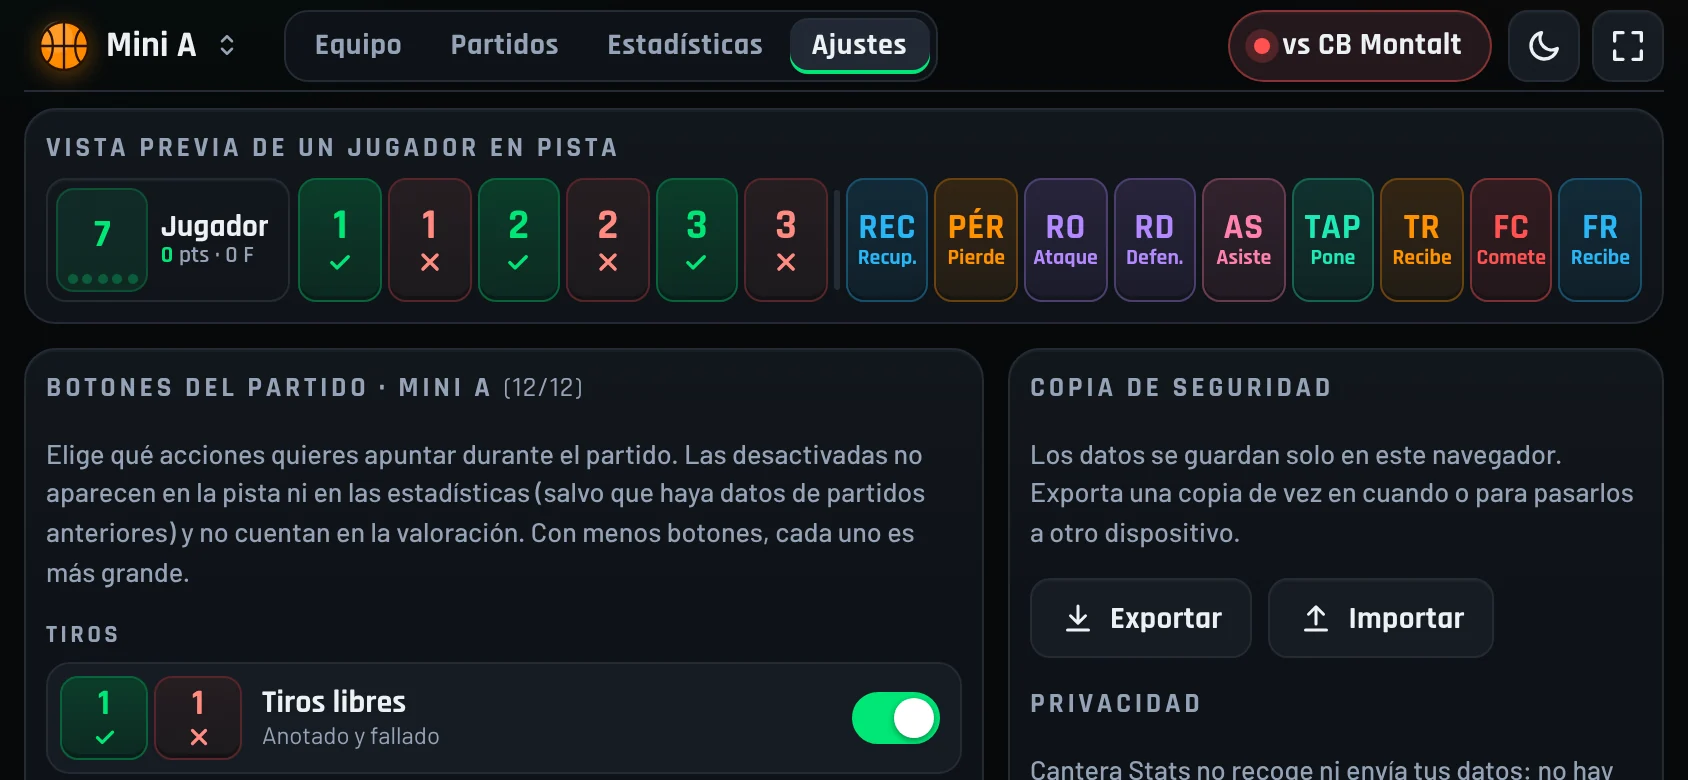
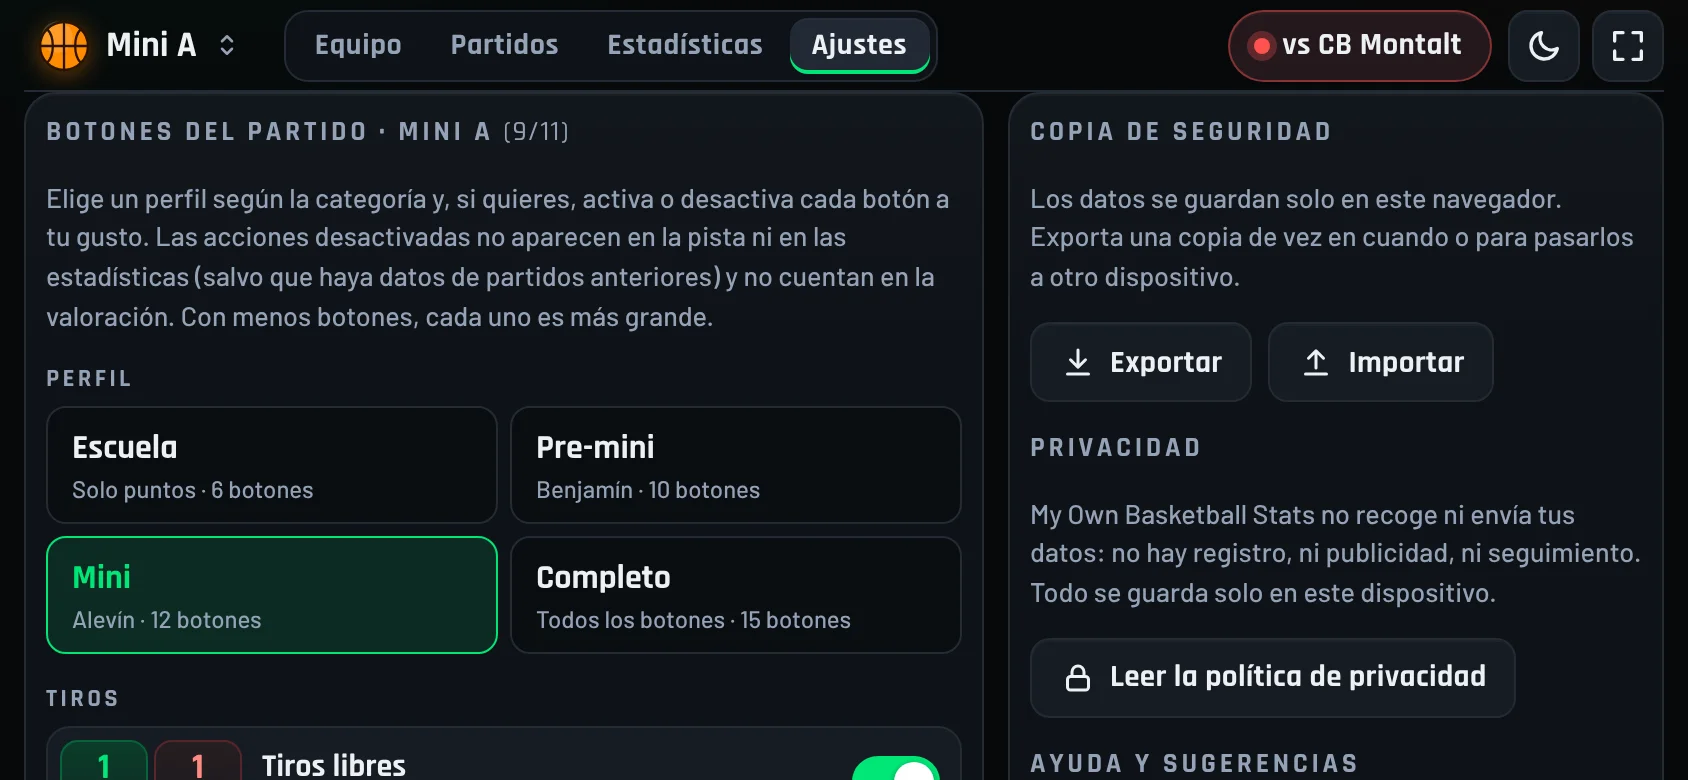
Web: capturas de la app con los perfiles, los rebotes y el rendimiento en directo
- Nuevas capturas (844×390 a 2x, modo oscuro) de la pantalla de partido, Ajustes
  y estadísticas, con un equipo en el perfil mini: botón único de rebote tras los
  tiros, valoración y +/- en directo, y los perfiles en Ajustes.
- scripts/capturas.mjs las genera con la app real y datos de ejemplo fijos
  (azar con semilla), para rehacerlas tras cada cambio visible.
- Textos alternativos actualizados (castellano y catalán) y README.

Claude-Session: https://claude.ai/code/session_0156vubYcrPUoFwhCi52DNzL

diff --git a/src/i18n/home.ts b/src/i18n/home.ts
@@ -16,7 +16,7 @@ export const home = {
     how: 'Ver cómo funciona',
     facts: ['Sin registro', 'Funciona sin conexión', 'Tus datos se quedan en tu móvil'],
     heroAlt:
-      'Pantalla de partido en My Own Basketball Stats: marcador 38 a 33 en el periodo 6 y una fila de botones por cada jugador en pista',
+      'Pantalla de partido en My Own Basketball Stats: marcador 38 a 33 en el periodo 6, la valoración del equipo y el +/- del quinteto en pista, y una fila de botones por cada jugador con sus puntos, faltas, valoración y +/-',
     audienceTitle: 'Para quien está en la banda',
     audienceIntro: 'El marcador dice quién ha ganado. Las estadísticas te dicen por qué, y qué trabajar el martes.',
     audience: [
@@ -51,7 +51,7 @@ export const home = {
       'Si te equivocas, deshaces la última acción o borras cualquier jugada de la lista.',
       'Todo cabe en la pantalla del móvil en horizontal, sin hacer scroll.',
     ],
-    miniAlt: 'Ajustes de My Own Basketball Stats: vista previa de los botones de un jugador e interruptores para activar o desactivar cada acción',
+    miniAlt: 'Ajustes de My Own Basketball Stats: perfiles de botones por categoría (escuela, pre-mini, mini y completo), con el perfil mini elegido, e interruptores para activar o desactivar cada acción',
     statsTitle: 'Las estadísticas, nada más acabar',
     stats: [
       'Resultado y parciales de cada periodo.',
@@ -113,7 +113,7 @@ export const home = {
     how: 'Mira com funciona',
     facts: ['Sense registre', 'Funciona sense connexió', 'Les dades es queden al teu mòbil'],
     heroAlt:
-      'Pantalla de partit a My Own Basketball Stats: marcador 38 a 33 al període 6 i una fila de botons per a cada jugador a la pista',
+      "Pantalla de partit a My Own Basketball Stats: marcador 38 a 33 al període 6, la valoració de l'equip i el +/- del quintet a la pista, i una fila de botons per a cada jugador amb els seus punts, faltes, valoració i +/-",
     audienceTitle: 'Per a qui és a la banda',
     audienceIntro: 'El marcador diu qui ha guanyat. Les estadístiques et diuen per què, i què cal treballar dimarts.',
     audience: [
@@ -148,7 +148,7 @@ export const home = {
       "Si t'equivoques, desfàs l'última acció o esborres qualsevol jugada de la llista.",
       'Tot cap a la pantalla del mòbil en horitzontal, sense haver de desplaçar-la.',
     ],
-    miniAlt: "Ajustos de My Own Basketball Stats: vista prèvia dels botons d'un jugador i interruptors per activar o desactivar cada acció",
+    miniAlt: "Ajustos de My Own Basketball Stats: perfils de botons per categoria (escuela, pre-mini, mini i completo), amb el perfil mini triat, i interruptors per activar o desactivar cada acció",
     statsTitle: 'Les estadístiques, en acabar el partit',
     stats: [
       'Resultat i parcials de cada període.',

diff --git a/README.md b/README.md
@@ -142,7 +142,10 @@ que menciona a Vercel como servicio de alojamiento) y subir la versión de la ca
 
 ## Recursos generados
 
-- `public/img/app-*.webp`: capturas reales de la app con datos de ejemplo, en un viewport de 844×390 a 2x.
+- `public/img/app-*.webp`: capturas reales de la app con datos de ejemplo, en un viewport de 844×390 a 2x y en modo
+  oscuro. Se rehacen con `node scripts/capturas.mjs` (Chromium de Playwright; los datos de ejemplo, con un equipo en
+  el perfil mini, se generan en el propio script y salen siempre iguales). Si cambian, revisa los textos alternativos
+  (`heroAlt`, `miniAlt` y `statsAlt` en `src/i18n/home.ts`).
 - `public/og/og.png`: imagen para compartir (1200×630). Fuente: `assets-src/og.html`.
 - `public/descargas/plantilla-estadisticas-baloncesto.pdf`: plantilla A4 apaisada. Fuente: `assets-src/plantilla-estadisticas.html`.
 
